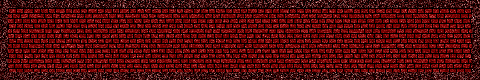
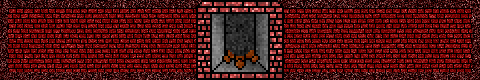
Added an animated fireplace to the InformationDisplay. Timer shown in minutes/seconds instead of milliseconds.

Changed region(s): [[0.4062, 0.0, 0.5938, 1.0]]

diff --git a/src/me/jack/LD40/level/InformationDisplay.java b/src/me/jack/LD40/level/InformationDisplay.java
@@ -2,10 +2,10 @@ package me.jack.LD40.level;
 
 import me.jack.LD40.level.tile.Shape;
 import me.jack.LD40.states.InGameState;
+import org.newdawn.slick.*;
 import org.newdawn.slick.Color;
 import org.newdawn.slick.Graphics;
 import org.newdawn.slick.Image;
-import org.newdawn.slick.SlickException;
 import org.w3c.dom.css.Rect;
 
 import java.awt.*;
@@ -21,7 +21,7 @@ public class InformationDisplay {
 
     Image bg = null, pause = null, quit = null;
     Rectangle pauseButton, quitButton;
-
+    Animation fireplace = null;
     public InformationDisplay(int x, int y, int screenW, int screenH) {
         this.screenW = screenW;
         this.screenH = screenH;
@@ -34,6 +34,8 @@ public class InformationDisplay {
             bg = new Image("res/infoBg.png");
             pause = new Image("res/pauseButton.png");
             quit = new Image("res/quitButton.png");
+            SpriteSheet sheet = new SpriteSheet("res/fireplace.png",88,80);
+            fireplace = new Animation(sheet,200);
         } catch (SlickException e) {
             e.printStackTrace();
         }
@@ -47,15 +49,18 @@ public class InformationDisplay {
         g.fillRect(8, 28, 100, 5);
         g.setColor(Color.white);
         g.fillRect(8, 28, 100 * (1 - (state.timer / 1500.0f)), 5);
+
         g.setColor(Color.white);
         g.drawString("Next Shape:", 8, 8);
         g.drawString("Score:" + state.score, 8, 36);
-        g.drawString("Timer: " + state.counter, 8, 55);
+        long minutes = (long) ((state.counter / 1000)  / 60);
+        int seconds = (int) ((state.counter / 1000) % 60);
+        g.drawString("Timer: " + minutes + ":" + seconds, 8, 55);
         //    drawButton(g, pauseButton, "Pause");
         // drawButton(g, quitButton, "Quit");
         g.drawImage(pause, pauseButton.x, pauseButton.y);
         g.drawImage(quit, quitButton.x, quitButton.y);
-
+        fireplace.draw(196,0);
         g.resetTransform();
     }
 

diff --git a/src/me/jack/LD40/level/GameBoard.java b/src/me/jack/LD40/level/GameBoard.java
@@ -55,7 +55,7 @@ public class GameBoard {
                 if (highlight[xx][yy] == 1 || tiles[xx][yy] == 1) {
                     fillRect(xx * tileSize, yy * tileSize, tileSize, tileSize, drawSurface, new int[]{255, 0, 0, 255});
                 }
-                drawRect(xx * tileSize, yy * tileSize, tileSize, tileSize, drawSurface, new int[]{255, 255, 255});
+                drawRect(xx * tileSize, yy * tileSize, tileSize, tileSize, drawSurface, new int[]{120, 120, 120});
             }
         }
         Image i = drawSurface.getImage();
